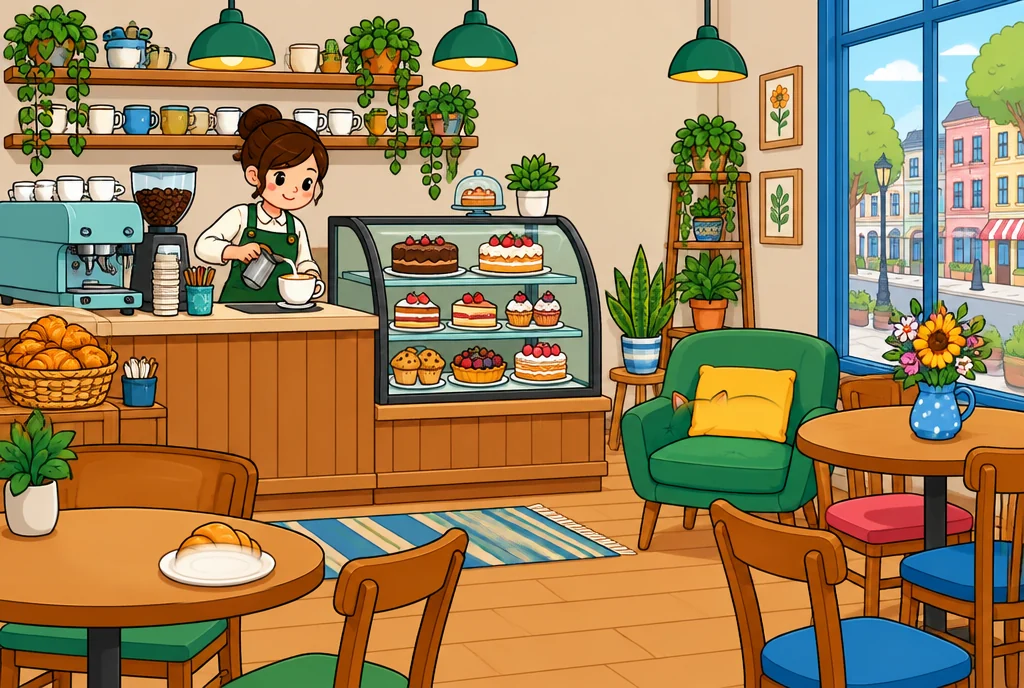
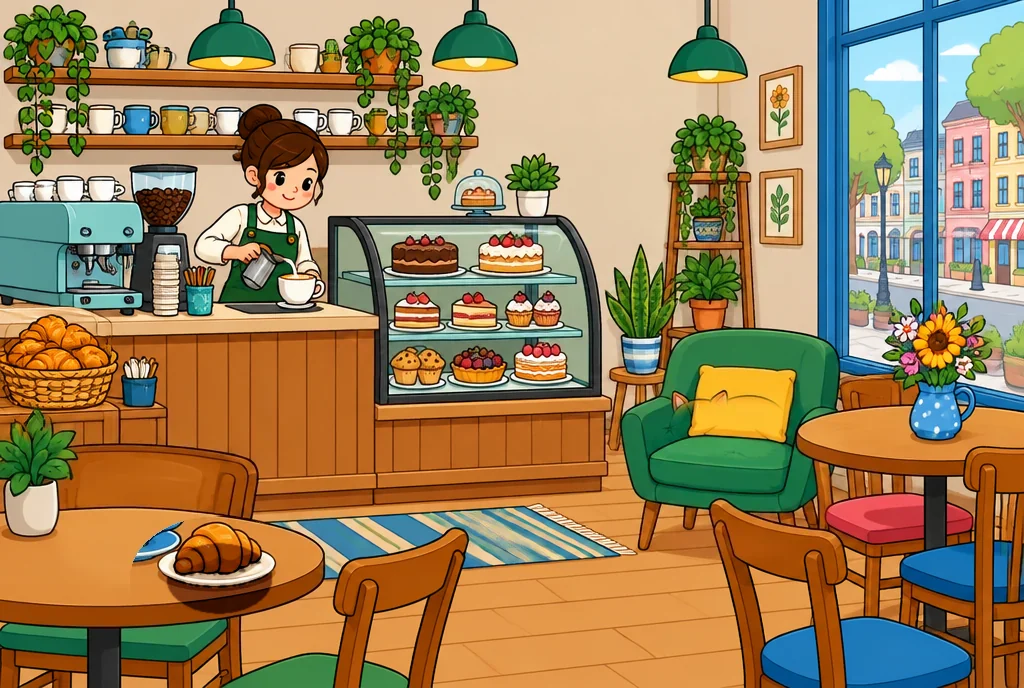
틀린그림: 번지던 B컷 9곳을 색상 마스크 기반으로 선명하게 재편집, 영역 밖 드리프트 제거
- 양동이+삽·장난감차·공·로켓·썰매·별 선명 재채색, 해 제거(하늘 보간), 크루아상 초코색
- 5개 영역 밖은 원본으로 복원(의도치 않은 차이 제거), 영역 좌표 3곳 보정
- spotLevels.ts 재수출

Claude-Session: https://claude.ai/code/session_016w6Xgt7pnuiPSU1tW2hror

Changed region(s): [[0.125, 0.7326, 0.2812, 0.9157]]

diff --git a/lib/games/spotLevels.ts b/lib/games/spotLevels.ts
@@ -6,8 +6,8 @@ export const SPOT_LEVELS: SpotLevel[] = [
   { id: "photo_kitchen", name: "부엌", diffs: [{ id: "d1", x: 0.2998, y: 0.4942, r: 0.0865, kind: "hue" }, { id: "d2", x: 0.5576, y: 0.5858, r: 0.0443, kind: "hue" }, { id: "d3", x: 0.6572, y: 0.4942, r: 0.0654, kind: "hue" }, { id: "d4", x: 0.2139, y: 0.6802, r: 0.0865, kind: "hue" }, { id: "d5", x: 0.75, y: 0.436, r: 0.0759, kind: "hue" }] },
   { id: "photo_market", name: "시장", diffs: [{ id: "d1", x: 0.3789, y: 0.2238, r: 0.0548, kind: "hue" }, { id: "d2", x: 0.4287, y: 0.702, r: 0.0654, kind: "hue" }, { id: "d3", x: 0.1963, y: 0.6686, r: 0.1245, kind: "hue" }, { id: "d4", x: 0.4443, y: 0.5814, r: 0.0865, kind: "hue" }, { id: "d5", x: 0.8926, y: 0.314, r: 0.0823, kind: "hue" }] },
   { id: "photo_desk", name: "책상", diffs: [{ id: "d1", x: 0.9043, y: 0.6773, r: 0.0496, kind: "hue" }, { id: "d2", x: 0.8135, y: 0.436, r: 0.0612, kind: "hue" }, { id: "d3", x: 0.0781, y: 0.3198, r: 0.0654, kind: "hue" }, { id: "d4", x: 0.835, y: 0.4099, r: 0.0548, kind: "hue" }, { id: "d5", x: 0.5859, y: 0.7456, r: 0.0928, kind: "hue" }] },
-  { id: "photo_bakery", name: "베이커리", diffs: [{ id: "d1", x: 0.8857, y: 0.6933, r: 0.0496, kind: "hue" }, { id: "d2", x: 0.7002, y: 0.1701, r: 0.0865, kind: "hue" }, { id: "d3", x: 0.2021, y: 0.8401, r: 0.1593, kind: "hue" }, { id: "d4", x: 0.6396, y: 0.5596, r: 0.0506, kind: "hue" }, { id: "d5", x: 0.459, y: 0.6831, r: 0.1318, kind: "hue" }] },
-  { id: "photo_beach", name: "해변 피크닉", diffs: [{ id: "d1", x: 0.2783, y: 0.234, r: 0.0443, kind: "hue" }, { id: "d2", x: 0.5215, y: 0.468, r: 0.0717, kind: "hue" }, { id: "d3", x: 0.0859, y: 0.5858, r: 0.0759, kind: "hue" }, { id: "d4", x: 0.5215, y: 0.7122, r: 0.0506, kind: "hue" }, { id: "d5", x: 0.7432, y: 0.7238, r: 0.0717, kind: "hue" }] },
+  { id: "photo_bakery", name: "베이커리", diffs: [{ id: "d1", x: 0.8574, y: 0.7776, r: 0.0506, kind: "hue" }, { id: "d2", x: 0.7002, y: 0.1701, r: 0.0865, kind: "hue" }, { id: "d3", x: 0.2021, y: 0.8401, r: 0.1593, kind: "hue" }, { id: "d4", x: 0.6396, y: 0.5596, r: 0.0506, kind: "hue" }, { id: "d5", x: 0.459, y: 0.6831, r: 0.1318, kind: "hue" }] },
+  { id: "photo_beach", name: "해변 피크닉", diffs: [{ id: "d1", x: 0.2783, y: 0.234, r: 0.0443, kind: "hue" }, { id: "d2", x: 0.5215, y: 0.468, r: 0.0717, kind: "hue" }, { id: "d3", x: 0.1074, y: 0.6105, r: 0.1266, kind: "hue" }, { id: "d4", x: 0.5215, y: 0.7122, r: 0.0506, kind: "hue" }, { id: "d5", x: 0.7432, y: 0.7238, r: 0.0717, kind: "hue" }] },
   { id: "photo_playroom", name: "놀이방", diffs: [{ id: "d1", x: 0.6504, y: 0.1701, r: 0.0654, kind: "hue" }, { id: "d2", x: 0.8994, y: 0.8939, r: 0.0506, kind: "hue" }, { id: "d3", x: 0.2783, y: 0.0552, r: 0.058, kind: "hue" }, { id: "d4", x: 0.4746, y: 0.0901, r: 0.1034, kind: "hue" }, { id: "d5", x: 0.6729, y: 0.5349, r: 0.1192, kind: "hue" }] },
   { id: "photo_park", name: "가을 공원", diffs: [{ id: "d1", x: 0.4355, y: 0.0959, r: 0.035, kind: "hue" }, { id: "d2", x: 0.7432, y: 0.6163, r: 0.0759, kind: "hue" }, { id: "d3", x: 0.8994, y: 0.7238, r: 0.0506, kind: "hue" }, { id: "d4", x: 0.6426, y: 0.9012, r: 0.0654, kind: "hue" }, { id: "d5", x: 0.9463, y: 0.3532, r: 0.0738, kind: "hue" }] },
   { id: "kitchen", name: "아늑한 부엌", diffs: [{ id: "d1", x: 0.6934, y: 0.1192, r: 0.0833, kind: "hue" }, { id: "d2", x: 0.7803, y: 0.5988, r: 0.1065, kind: "hue" }, { id: "d3", x: 0.5283, y: 0.5494, r: 0.16, kind: "hue" }, { id: "d4", x: 0.1758, y: 0.6003, r: 0.115, kind: "hue" }, { id: "d5", x: 0.0713, y: 0.3619, r: 0.0443, kind: "hue" }] },
@@ -16,5 +16,5 @@ export const SPOT_LEVELS: SpotLevel[] = [
   { id: "farm", name: "농장", diffs: [{ id: "d1", x: 0.3535, y: 0.6352, r: 0.1129, kind: "hue" }, { id: "d2", x: 0.7529, y: 0.0872, r: 0.0823, kind: "hue" }, { id: "d3", x: 0.875, y: 0.8939, r: 0.16, kind: "hue" }, { id: "d4", x: 0.8994, y: 0.064, r: 0.0506, kind: "hue" }, { id: "d5", x: 0.5713, y: 0.3401, r: 0.097, kind: "hue" }] },
   { id: "ocean", name: "바닷속 탐험", diffs: [{ id: "d1", x: 0.4688, y: 0.2485, r: 0.0696, kind: "hue" }, { id: "d2", x: 0.1914, y: 0.5145, r: 0.1055, kind: "hue" }, { id: "d3", x: 0.6514, y: 0.7224, r: 0.154, kind: "hue" }, { id: "d4", x: 0.8574, y: 0.1279, r: 0.1181, kind: "hue" }, { id: "d5", x: 0.5, y: 0.936, r: 0.0506, kind: "hue" }] },
   { id: "cafe", name: "동네 카페", diffs: [{ id: "d1", x: 0.7236, y: 0.657, r: 0.0981, kind: "hue" }, { id: "d2", x: 0.5898, y: 0.1831, r: 0.1276, kind: "hue" }, { id: "d3", x: 0.1514, y: 0.7616, r: 0.0991, kind: "hue" }, { id: "d4", x: 0.2139, y: 0.8401, r: 0.0506, kind: "hue" }, { id: "d5", x: 0.3857, y: 0.4898, r: 0.0506, kind: "hue" }] },
-  { id: "winter", name: "겨울 마을", diffs: [{ id: "d1", x: 0.1797, y: 0.8416, r: 0.1107, kind: "hue" }, { id: "d2", x: 0.5605, y: 0.8212, r: 0.0601, kind: "hue" }, { id: "d3", x: 0.4658, y: 0.7267, r: 0.1434, kind: "hue" }, { id: "d4", x: 0.4639, y: 0.1061, r: 0.035, kind: "hue" }, { id: "d5", x: 0.0996, y: 0.0843, r: 0.035, kind: "hue" }] },
+  { id: "winter", name: "겨울 마을", diffs: [{ id: "d1", x: 0.1797, y: 0.8416, r: 0.1107, kind: "hue" }, { id: "d2", x: 0.5605, y: 0.8212, r: 0.0601, kind: "hue" }, { id: "d3", x: 0.4658, y: 0.7267, r: 0.1434, kind: "hue" }, { id: "d4", x: 0.4678, y: 0.0523, r: 0.0359, kind: "hue" }, { id: "d5", x: 0.0996, y: 0.0843, r: 0.035, kind: "hue" }] },
 ];

diff --git a/CLAUDE.md b/CLAUDE.md
@@ -190,3 +190,4 @@
   - 추가(손인사): 대표님 "손이라도 흔들던가" → 포즈 크로스페이드로는 안 움직여 보여서 **팔을 실제로 분리**. 스크래치 `mascot/split.py`: mascot_1 에서 팔 폴리곤을 잘라 `public/brand/mascot_arm.webp`, 몸은 팔을 지우고 **오른쪽 볼을 좌우반전(머리 중심 x=330)해 구멍 메움** → `mascot_body.webp`. `Mascot.tsx` 가 몸 위에 팔을 bbox 비율(left 8.4% top 25% w 20.8% h 35.2%)로 얹고 어깨 축(72%,82%)으로 `mascotWave`(−22°↔+10° 4회, 1.3s) 회전. 마운트 0.5s 후 + 3~5s 마다 흔들고 3회 중 1회는 두리번(mascot_3). 탭 → 점프·코인 포즈 후 복귀하며 손인사.
   - 추가(홈 히어로): 대표님 "막대기 세 개 촌스럽다" → 진행 막대 제거. 퀴즈 3칸 동그라미(미완 연파랑 quiz 아이콘 → 완료 파랑 체크) + "N/3 완료" + "N개 더 풀면 300P"(보상은 dayNo 별 300/500/700, newbie.ts 가 server-only 라 클라이언트에 상수 복제). 받을 보상 있으면 앰버 "300P 받기", 다 풀면 "오늘 미션 완료".
   - 추가(룰렛 재제작): 대표님 "룰렛 안 돌아간다, 액션 많이" — 원인은 스탬프 10개 미만이면 버튼이 잠겨 있던 것. **첫 룰렛 1회 무료**(`spin()`: 스핀 기록 없으면 스탬프 미소비, `RoulettePayload.freeSpin`·`SpinResult.free`). 휠을 rAF 직접 구동으로 재작성(`app/roulette/page.tsx`): 당김 −14° 0.38s → 5.6s ease-out(5승) + 끝에서 2° 오버슈트 복귀, 매 프레임 포인터 아래 조각 인덱스 계산 → 경계 통과마다 핀 튕김(`rl-nudge`)·tick 효과음·진동. 네이비 림 + 전구 24개(도는 중 체이스, 당첨 시 교차 점멸), 조각별 그라디언트(1,000P 골드·300P 오렌지·100/50P 블루/바이올렛·기프티콘 핑크·꽝 그레이) + duoPath 아이콘, 골드 허브 SPIN 버튼(펄스·눌림), 당첨 조각 흰 플래시, 꽝은 휠 흔들림 + mascot_5, 당첨 모달 mascot_2 + 빛줄기. 착지 위치는 조각 중앙 ±28% 랜덤. 세그 라벨 180° 위치는 거꾸로 보임(원형 룰렛 공통). QA `qa/roulette.js`(무료→50P, 409, 스탬프 10→스핀→잔액 150).
+  - 추가(틀린그림 B컷 선명화): 대표님 "지우다 만 게 티 난다, 다를 거면 확실히". 전수 감사(`spotgen/v2/audit_*.jpg`)에서 페더 타원 hue 편집 9곳이 번짐(양동이·장난감차·공 2·로켓·해·썰매·별·크루아상). `spotgen/v2/fix_crisp.py`: HSV 색상 마스크(hue±tol·S·V 임계, 중심 덩어리/전체/상자 제한, closing) → 경계 0.7px 만 부드럽게 재채색(번짐 없음) / 제거는 행별 하늘 중앙값 메우기(rowsample). 결정: 양동이+삽 함께 파랑(상자 제한), 로켓 초록(상자로 시계 제외), 해 제거, 썰매 파랑, 별 빨강(영역 좌표를 별 중심으로 보정), 크루아상은 지우지 않고 초코색. `restore_outside.py`: 5개 영역(×1.9+10) 밖을 원본으로 되돌려 모델 드리프트로 생긴 **의도치 않은 차이**(베이커리 쿠키병·작은 칠판 등) 제거 + 영역별 변경 픽셀 보고. 영역 보정: photo_beach #3 → 양동이+삽 중심, photo_bakery #1 → 라떼 하트. 교훈: 페더 타원 합성 금지, 색 변경은 마스크 기반, 제거는 단색/그라디언트 배경에서만.
